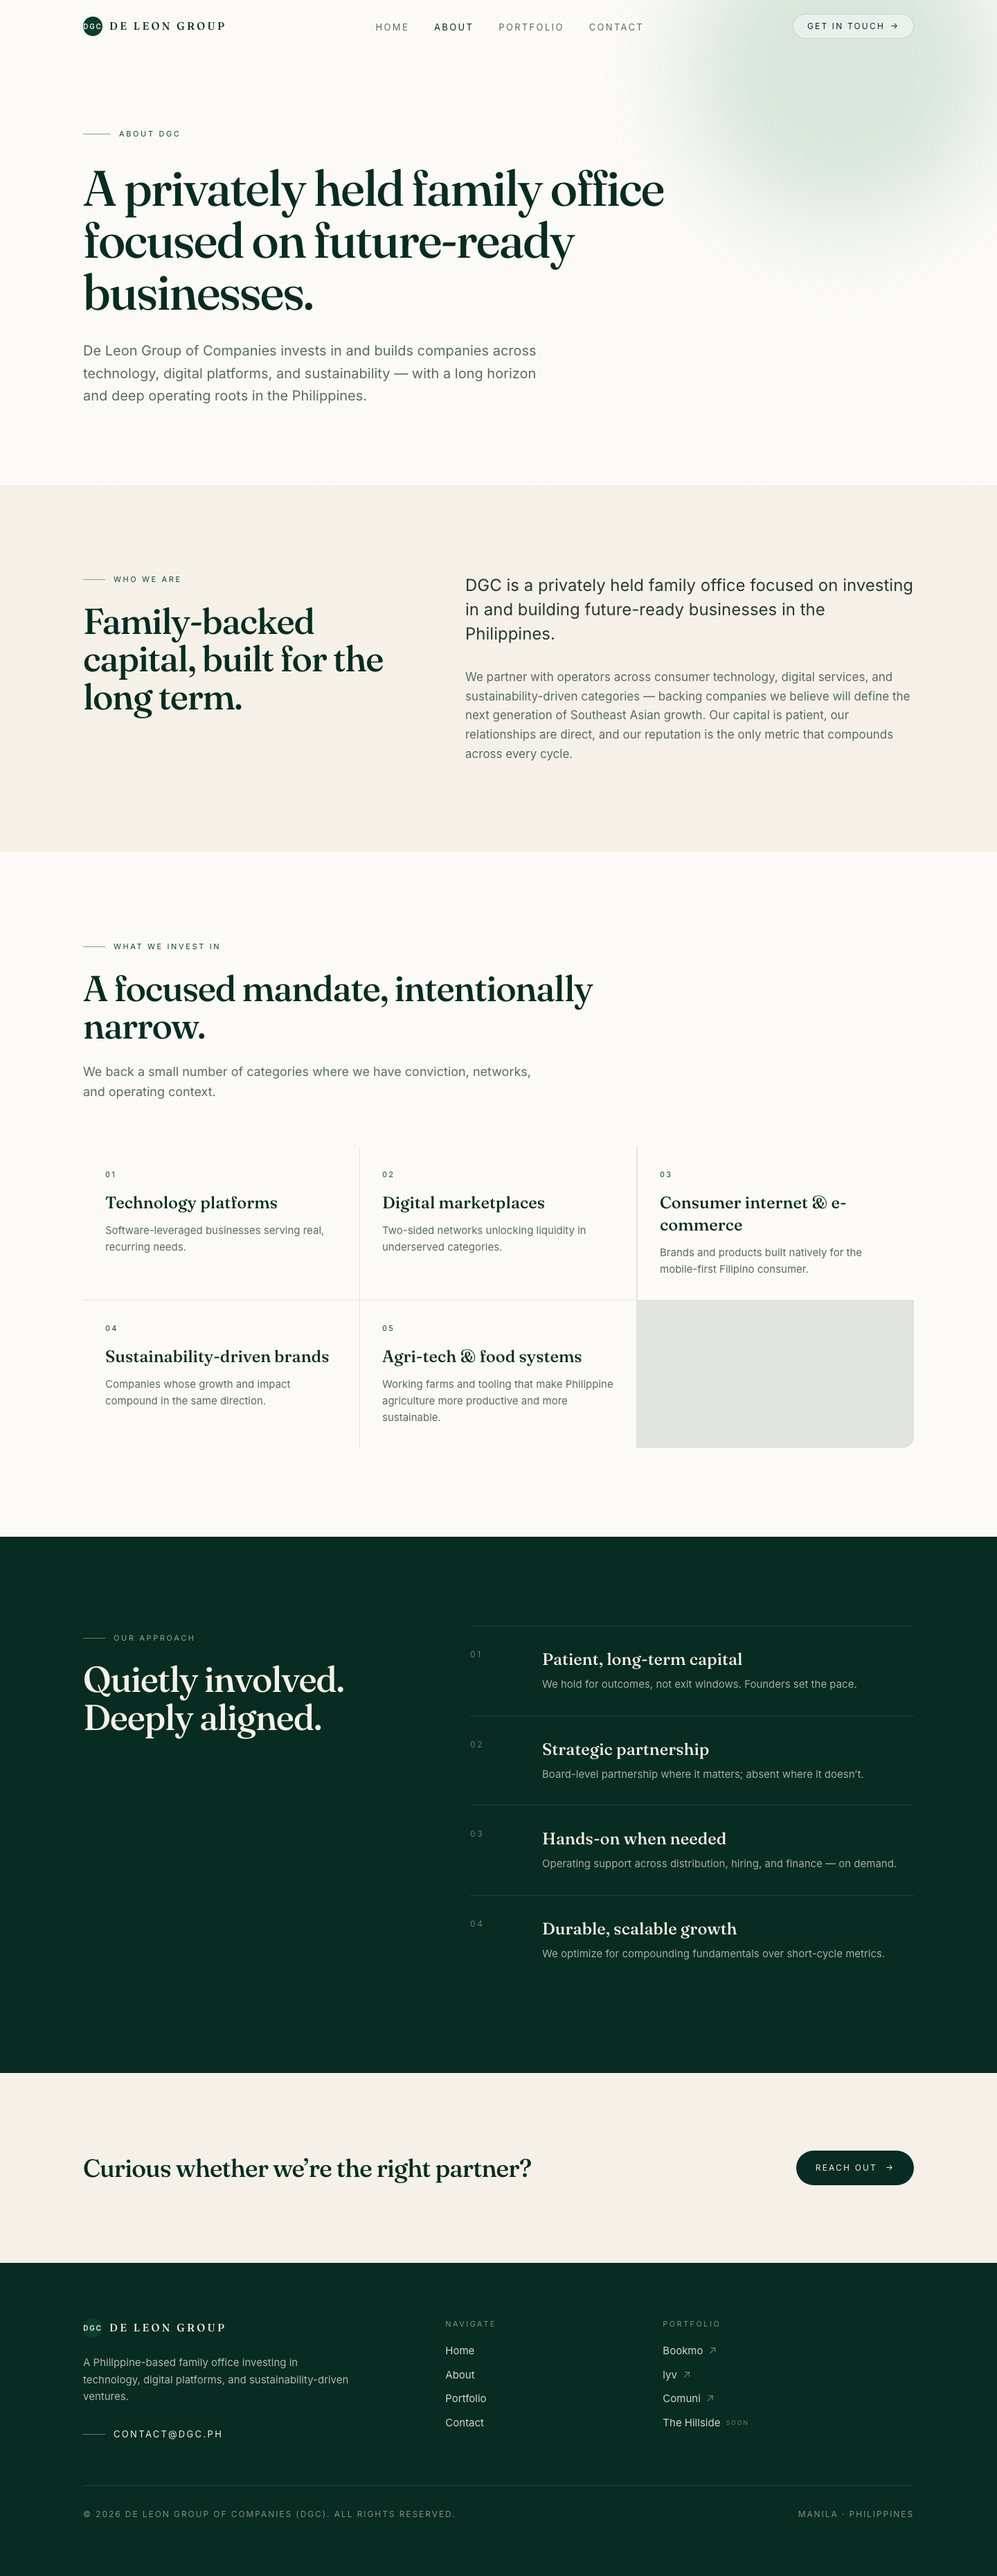
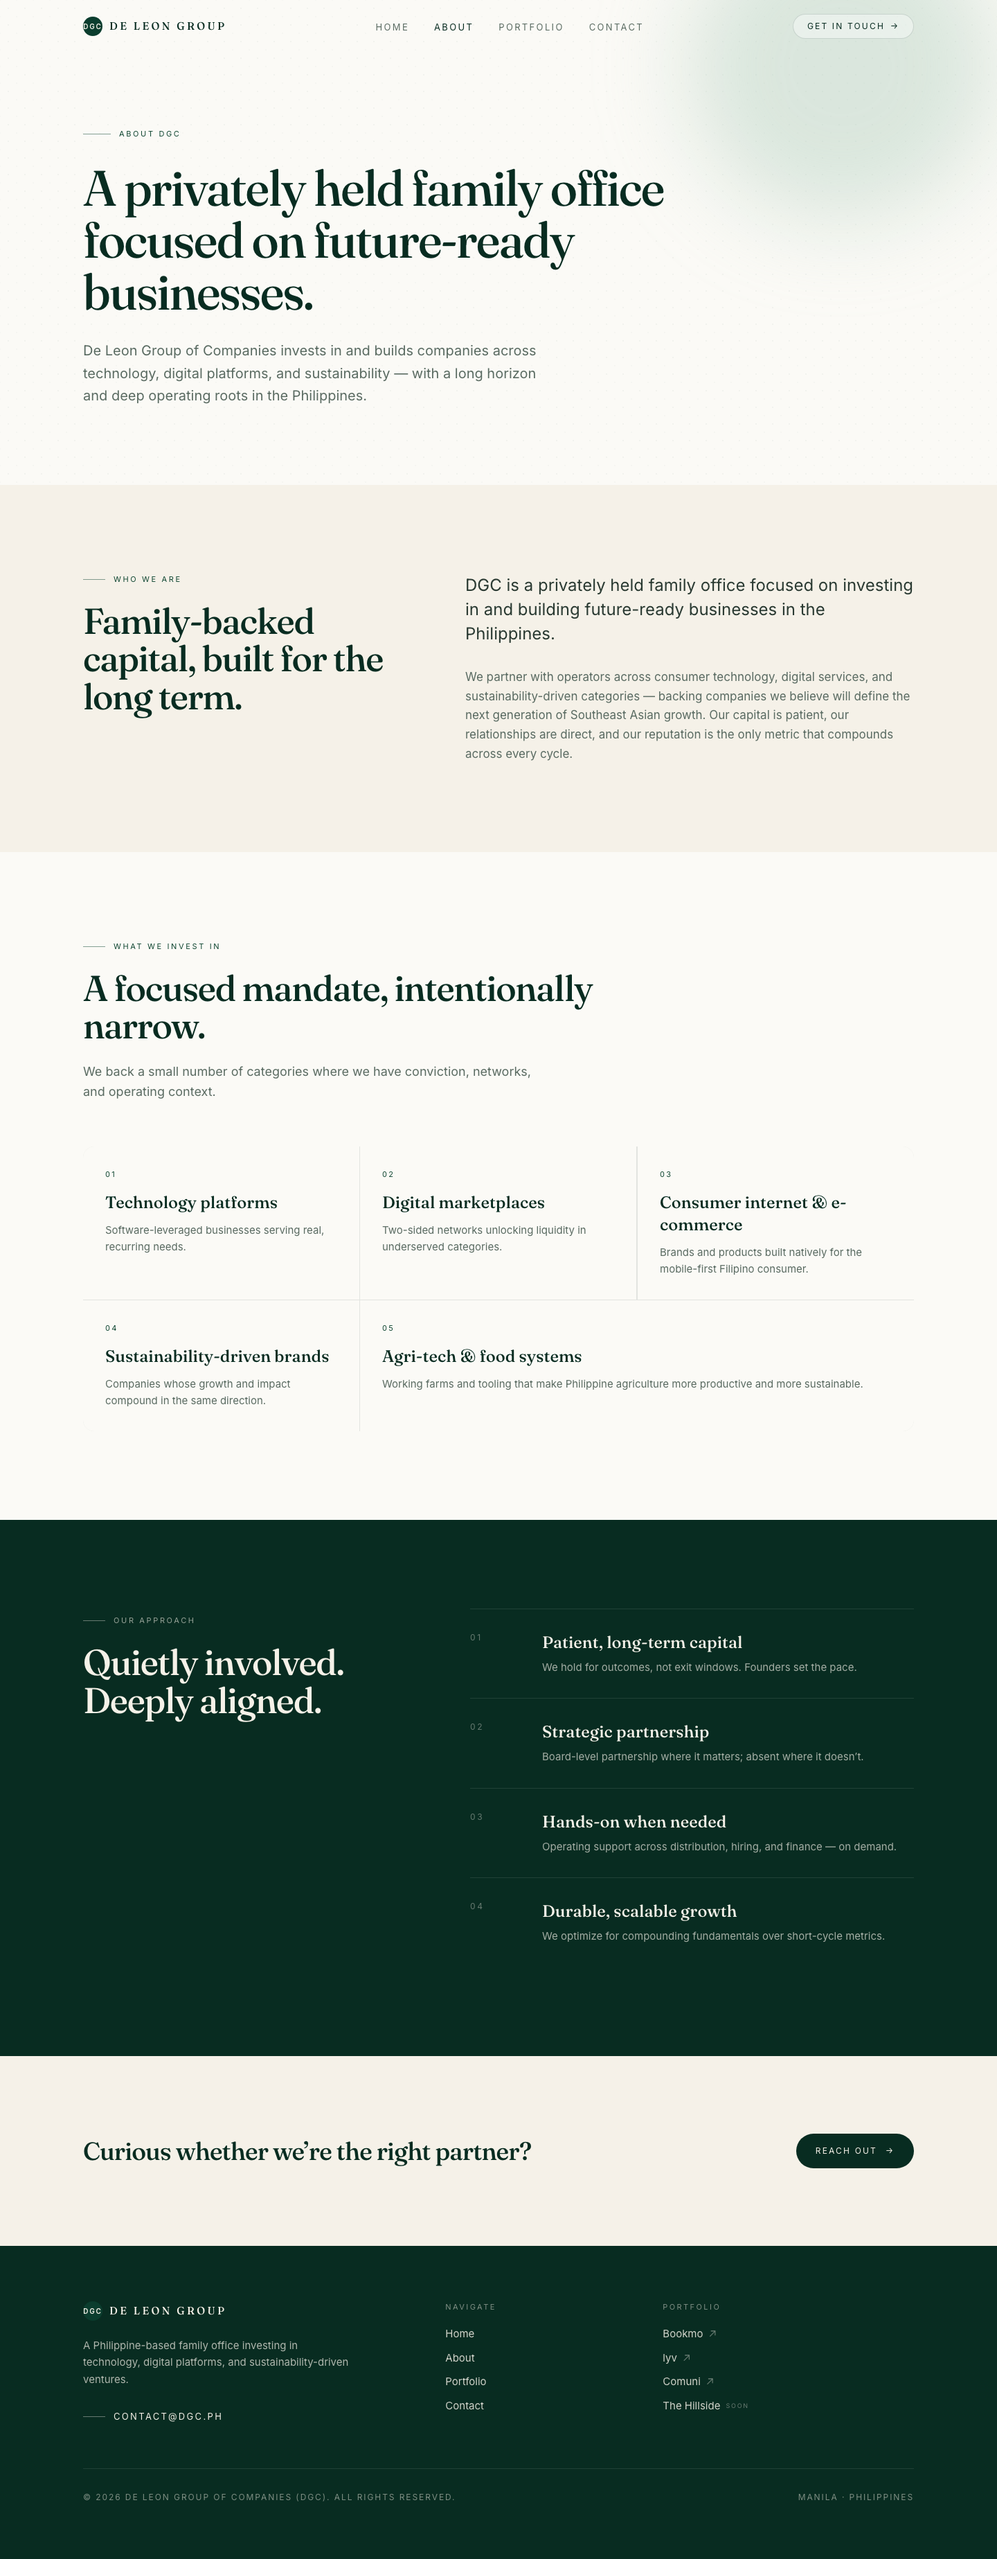
Fill the last row of the About page's 'What we invest in' grid
The grid's hairlines come from the container's background showing
through gap-px, so an empty slot at the two- or three-column width
showed as a solid grey block. The last item now spans the rest of its
row, computed from the item count by lastRowSpan(), so the grid stays
whole if items are added or removed. Regenerate the About screenshot.

Closes #18

diff --git a/src/pages/About.jsx b/src/pages/About.jsx
@@ -2,6 +2,7 @@ import { Link } from 'react-router-dom'
 import PageHeader from '../components/PageHeader.jsx'
 import SectionHeading from '../components/SectionHeading.jsx'
 import usePageMeta from '../hooks/usePageMeta.js'
+import { lastRowSpan } from '../lib/lastRowSpan.js'
 
 const investAreas = [
   { title: 'Technology platforms', body: 'Software-leveraged businesses serving real, recurring needs.' },
@@ -78,7 +79,9 @@ export default function About() {
             {investAreas.map((a, i) => (
               <div
                 key={a.title}
-                className="reveal bg-sand-50 p-8"
+                className={`reveal bg-sand-50 p-8 ${
+                  i === investAreas.length - 1 ? lastRowSpan(investAreas.length) : ''
+                }`}
                 style={{ transitionDelay: `${i * 70}ms` }}
               >
                 <p className="text-[11px] tracking-[0.22em] uppercase text-forest-700">

diff --git a/src/lib/lastRowSpan.js b/src/lib/lastRowSpan.js
@@ -1,0 +1,12 @@
+// Column-span classes for the last item of a grid that is one column on
+// mobile, two at `sm` and three at `lg`. The last item stretches across the
+// rest of its row, so a grid whose hairlines come from the container's
+// background never shows an empty cell, whatever the item count.
+const lgSpans = ['', 'lg:col-span-3', 'lg:col-span-2']
+
+export function lastRowSpan(count) {
+  const sm = count % 2 === 1 ? 'sm:col-span-2' : ''
+  // A full last row at `lg` still has to undo the `sm` span.
+  const lg = lgSpans[count % 3] || (sm && 'lg:col-span-1')
+  return [sm, lg].filter(Boolean).join(' ')
+}

diff --git a/src/lib/lastRowSpan.test.js b/src/lib/lastRowSpan.test.js
@@ -1,0 +1,15 @@
+import { describe, expect, it } from 'vitest'
+import { lastRowSpan } from './lastRowSpan.js'
+
+describe('lastRowSpan', () => {
+  it.each([
+    [1, 'sm:col-span-2 lg:col-span-3'],
+    [2, 'lg:col-span-2'],
+    [3, 'sm:col-span-2 lg:col-span-1'],
+    [4, 'lg:col-span-3'],
+    [5, 'sm:col-span-2 lg:col-span-2'],
+    [6, ''],
+  ])('fills the last row of a %i-item grid', (count, classes) => {
+    expect(lastRowSpan(count)).toBe(classes)
+  })
+})

diff --git a/docs/decisions.md b/docs/decisions.md
@@ -67,3 +67,9 @@ This page is the decision log for the dgc.ph website: each entry records a choic
 **Decision:** Vercel's production branch is `production`, not `main`. Only commits on `production` deploy to dgc.ph; merges to `main` create preview deployments. A release fast-forwards `production` to a verified commit on `main`, and only the site owner releases.
 
 **Why:** Merging to `main` doesn't change the live site, so reviewed work can collect on `main` and be checked on its preview before anyone sees it. Releasing is a separate, deliberate step that the owner takes when they are ready, and a fast-forward keeps `production` an exact copy of a commit that already passed `npm run verify` on `main`.
+
+## Hairline grids fill their last row
+
+**Decision:** A grid whose dividing lines come from the container's background showing through `gap-px` (such as **What we invest in** on the About page) gives its last item the classes from `lastRowSpan(count)` in `src/lib/lastRowSpan.js`. The last item then stretches across the rest of its row at the two-column (`sm`) and three-column (`lg`) widths.
+
+**Why:** Any empty slot in such a grid shows the container's background as a solid grey block that looks like a missing card. Computing the span from the item count keeps the grid whole when items are added or removed, without moving the hairlines onto each item's borders.
